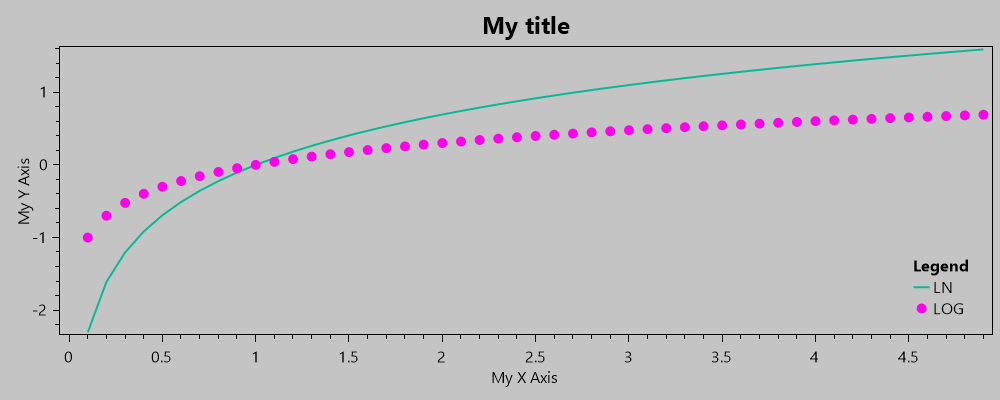
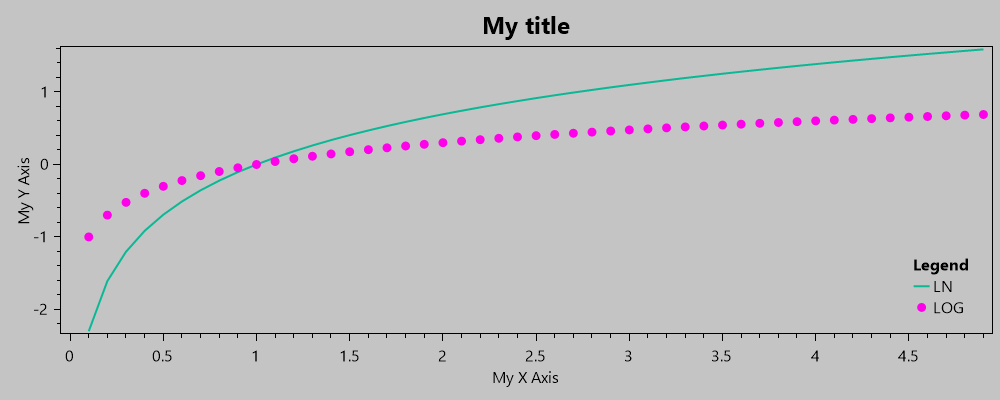
Set default values

diff --git a/PterodactylChartsTests/TestGraphAxis.cs b/PterodactylChartsTests/TestGraphAxis.cs
@@ -18,7 +18,7 @@ namespace UnitTestEngine
         public TestGraphAxisWithColorHelper()
         {
             Add("XAxis", "Y Axis Name", "Color Axis Name", 0.0, 15.0, "Graph Axis with X and Y and Color");
-            Add("X", "Y", "Color", 20.0, 100.0, "Graph Axis with X and Y and Color");
+            Add("X", "Y", "Color", 1.0, 100.0, "Graph Axis with X and Y and Color");
         }
     }
 
@@ -26,10 +26,10 @@ namespace UnitTestEngine
     {
         public TestGraphAxisWithColorExceptionHelper()
         {
-            Add("X", "Y", "Color", -1, 100.0, "Padding is limited from 0.00 to 250.00");
-            Add("X", "Y", "Color", 251, 100.0, "Padding is limited from 0.00 to 250.00");
-            Add("X", "Y", "Color", 20.0, 4, "Text size must be in range [5-150] pt");
-            Add("X", "Y", "Color", 20.0, 151, "Text size must be in range [5-150] pt");
+            Add("X", "Y", "Color", -0.01, 100.0, "Padding is limited from 0.00 to 1.00");
+            Add("X", "Y", "Color", 1.01, 100.0, "Padding is limited from 0.00 to 1.00");
+            Add("X", "Y", "Color", 0.0, 4, "Text size must be in range [5-150] pt");
+            Add("X", "Y", "Color", 0.0, 151, "Text size must be in range [5-150] pt");
         }
     }
 

diff --git a/Pterodactyl/GraphSettingsGH.cs b/Pterodactyl/GraphSettingsGH.cs
@@ -19,8 +19,8 @@ namespace Pterodactyl
             pManager.AddGenericParameter("Graph Sizes", "Graph Sizes", "Set graph sizes", GH_ParamAccess.item);
             pManager.AddColourParameter("Background", "Background", "Set background color for graph", GH_ParamAccess.item, Color.White);
             pManager.AddGenericParameter("Graph Axis", "Graph Axis", "Set axes of graph", GH_ParamAccess.item);
-            pManager.AddNumberParameter("Graph Padding", "Graph Padding", "The padding around the graph", GH_ParamAccess.item, 10d);
-            pManager.AddNumberParameter("Title Size", "Title Size", "The title size", GH_ParamAccess.item, 16d);
+            pManager.AddNumberParameter("Graph Padding", "Graph Padding", "The padding around the graph", GH_ParamAccess.item, 8.0);
+            pManager.AddNumberParameter("Title Size", "Title Size", "The title size", GH_ParamAccess.item, 18.0);
         }
         protected override void RegisterOutputParams(GH_Component.GH_OutputParamManager pManager)
         {

diff --git a/Pterodactyl/GraphAxisGH.cs b/Pterodactyl/GraphAxisGH.cs
@@ -18,7 +18,7 @@ namespace Pterodactyl
             pManager.AddTextParameter("Y Axis Name", "Y Axis Name", "Name of the y axis", GH_ParamAccess.item, "y");
             pManager.AddTextParameter("C Axis Name", "C Axis Name", "Name of the color axis (used in Scatter Data)", GH_ParamAccess.item, "Color range");
             pManager.AddNumberParameter("Axis Padding", "Axis Padding", "Offset distance from X & Y Axis to plot data from 0.00 - 1.00", GH_ParamAccess.item, 0.01);
-            pManager.AddNumberParameter("Text size", "Text size", "Text size", GH_ParamAccess.item, 9);
+            pManager.AddNumberParameter("Text size", "Text size", "Text size", GH_ParamAccess.item, 12);
         }
         protected override void RegisterOutputParams(GH_Component.GH_OutputParamManager pManager)
         {

diff --git a/PterodactylCharts/GraphAxis.cs b/PterodactylCharts/GraphAxis.cs
@@ -20,9 +20,9 @@ namespace PterodactylCharts
             GlobalAxisPadding = globalAxisPadding;
             TextSize = textSize;
 
-            if (GlobalAxisPadding > 250 || GlobalAxisPadding < 0)
+            if (GlobalAxisPadding > 1.0 || GlobalAxisPadding < 0.0)
             {
-                throw new ArgumentException("Padding is limited from 0.00 to 250.00");
+                throw new ArgumentException("Padding is limited from 0.00 to 1.00");
             }
             if (TextSize > 150 || TextSize < 5)
             {
